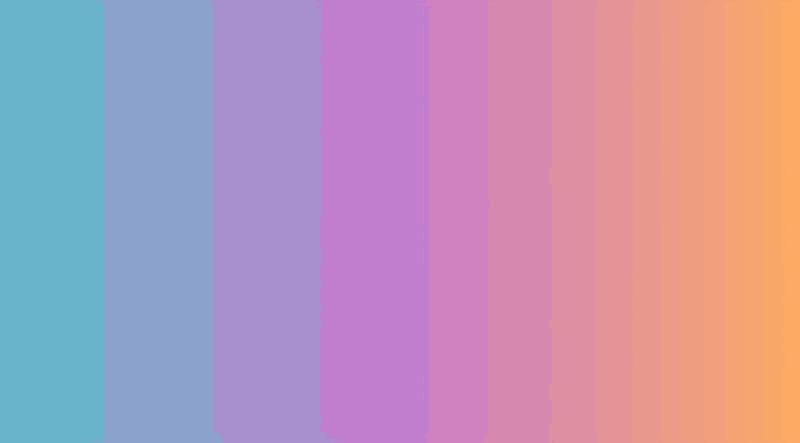
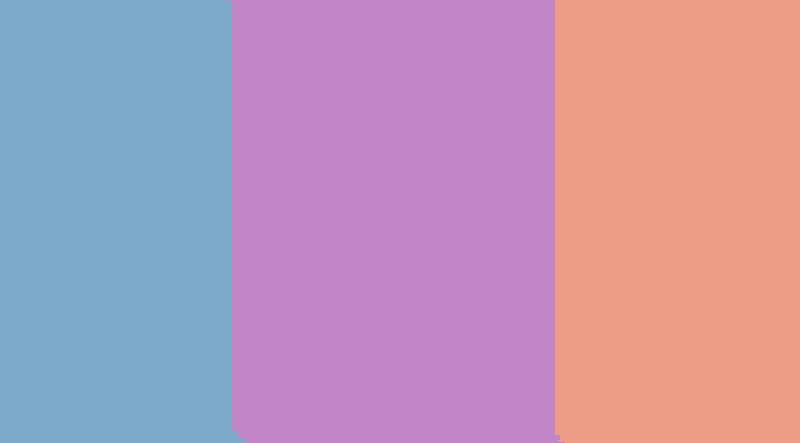
implemented lempel ziv encoding and writing bytes to file

Changed region(s): [[0.25, 0.0, 0.4375, 1.0], [0.5938, 0.0, 0.75, 1.0], [0.9375, 0.0, 1.0, 1.0]]

diff --git a/ProcessImage.py b/ProcessImage.py
@@ -1,5 +1,37 @@
-from algorithms.KDSearch import buildKDTree, searchKDTree
 from PIL import Image
+from algorithms.KDSearch import buildKDTree, searchKDTree
+from algorithms.KMeansClustering import cluster
+from algorithms.HuffmanCoding import build_huffman_tree, get_huffman_codes
+from algorithms.LempelZiv import encode_lz
+
+def compress_image(input_path, output_path, k):
+    """
+    driver function for image compression
+    """
+    # load image
+    image = Image.open(input_path).convert('RGB')
+    dims = image.size
+    colors = list(image.getdata())
+
+    # reduce colors in image (lossy)
+    clusters, centroids = cluster(colors, k)
+    rounded_centroids = [tuple(round(c) for c in color) for color in centroids]
+    reduced_colors = reduce_colors(colors, rounded_centroids)
+    save_image(reduced_colors, dims, './data/gradient_reduced.jpeg')
+
+    # build Huffman tree and get codes
+    freqs = {rounded_centroids[i]: len(clusters[i]) for i in range(len(clusters))}
+    tree = build_huffman_tree(freqs)
+    codes = get_huffman_codes(tree)
+
+    # encode to binary string with Lempel-Ziv
+    string, padding = encode_lz(reduced_colors, codes)
+    metadata = generate_metadata_string(dims, padding, tree)
+
+    # convert to bytes and write to file
+    byte_data = convert_to_bytes(metadata + string)
+    write_to_file(byte_data, output_path)
+
 
 def reduce_colors(colors, centroids):
     """
@@ -11,6 +43,49 @@ def reduce_colors(colors, centroids):
         closest = searchKDTree(tree, color)
         reduced.append(closest)
     return reduced
+
+
+def generate_metadata_string(dims, padding, tree):
+    """
+    Generate string of metadata to preface encoded image
+    """
+    tree_string = generate_tree_string(tree)
+    comma = format(ord(','), '08b')
+    return format(dims[0], '08b') + comma + format(dims[1], '08b') + comma + format(padding, '08b') + comma + tree_string
+
+
+def generate_tree_string(tree):
+    """
+    generate string to represent tree
+    """
+    tree_string = ""
+    for subtree in tree:
+        if len(subtree) == 3:
+            for color in subtree:
+                tree_string += format(color, '08b')
+        else:
+            tree_string += format(ord('('), '08b') + generate_tree_string(subtree) + format(ord(')'), '08b')
+    return tree_string
+
+
+def convert_to_bytes(bit_string):
+    """
+    convert bits to bytes
+    """
+    byte_list = []
+    for i in range(0, len(bit_string), 8):
+        byte = bit_string[i:i+8]
+        byte_list.append(int(byte, 2))
+
+    return bytes(byte_list)
+
+
+def write_to_file(byte_data, path):
+    """
+    write bytes to file
+    """
+    with open(path, 'wb') as f:
+        f.write(byte_data)
 
 
 def save_image(colors, dims, path):

diff --git a/main.py b/main.py
@@ -1,34 +1,10 @@
-from PIL import Image
-from algorithms.KMeansClustering import cluster
-from algorithms.HuffmanCoding import build_huffman_tree, get_huffman_codes
-from algorithms.LempelZiv import encode_lz
-from ProcessImage import *
+from ProcessImage import compress_image
 
 # COMPRESS
-# load image
-path = "./data/gradient.jpg"
-image = Image.open(path).convert('RGB')
-dims = image.size
-colors = list(image.getdata())
-
-# reduce colors in image (lossy)
-clusters, centroids = cluster(colors, 3)
-rounded_centroids = [tuple(round(c) for c in color) for color in centroids]
-reduced_colors = reduce_colors(colors, rounded_centroids)
-#save_image(reduced_colors, dims, './data/gradient_reduced.jpeg')
-
-# compress to binary
-freqs = {rounded_centroids[i]: len(clusters[i]) for i in range(len(clusters))}
-print(freqs)
-tree = build_huffman_tree(freqs)
-codes = get_huffman_codes(tree)
-string = encode_lz(reduced_colors, codes)
-print(string)
-
-#codes = encode_colors(image)
-# compress with lempel ziv
-# save to file
-
+in_path = "./data/gradient.jpg"
+out_path = "./data/grad_compressed.bin"
+k = 3
+compress_image(in_path, out_path, k)
 
 # DECOMPRESS
 # load compressed bin file

diff --git a/algorithms/LempelZiv.py b/algorithms/LempelZiv.py
@@ -7,7 +7,6 @@ def encode_lz(colors, codes):
     """
     # initialize variables
     sequences = []
-    chars = set(colors)
     bit_string = ""
 
     # iterate through colors, adding new sequences where they appear to table and bit string
@@ -27,4 +26,7 @@ def encode_lz(colors, codes):
     if len(current_combo) > 0:
         bit_string += pad_bit_string(format(sequences.index(tuple(current_combo))+1, 'b'), ceil(log2(len(sequences) + 1)))
 
-    return bit_string
+    padding = (8 - len(bit_string)%8)%8
+    bit_string = padding*'0' + bit_string
+
+    return bit_string, padding
